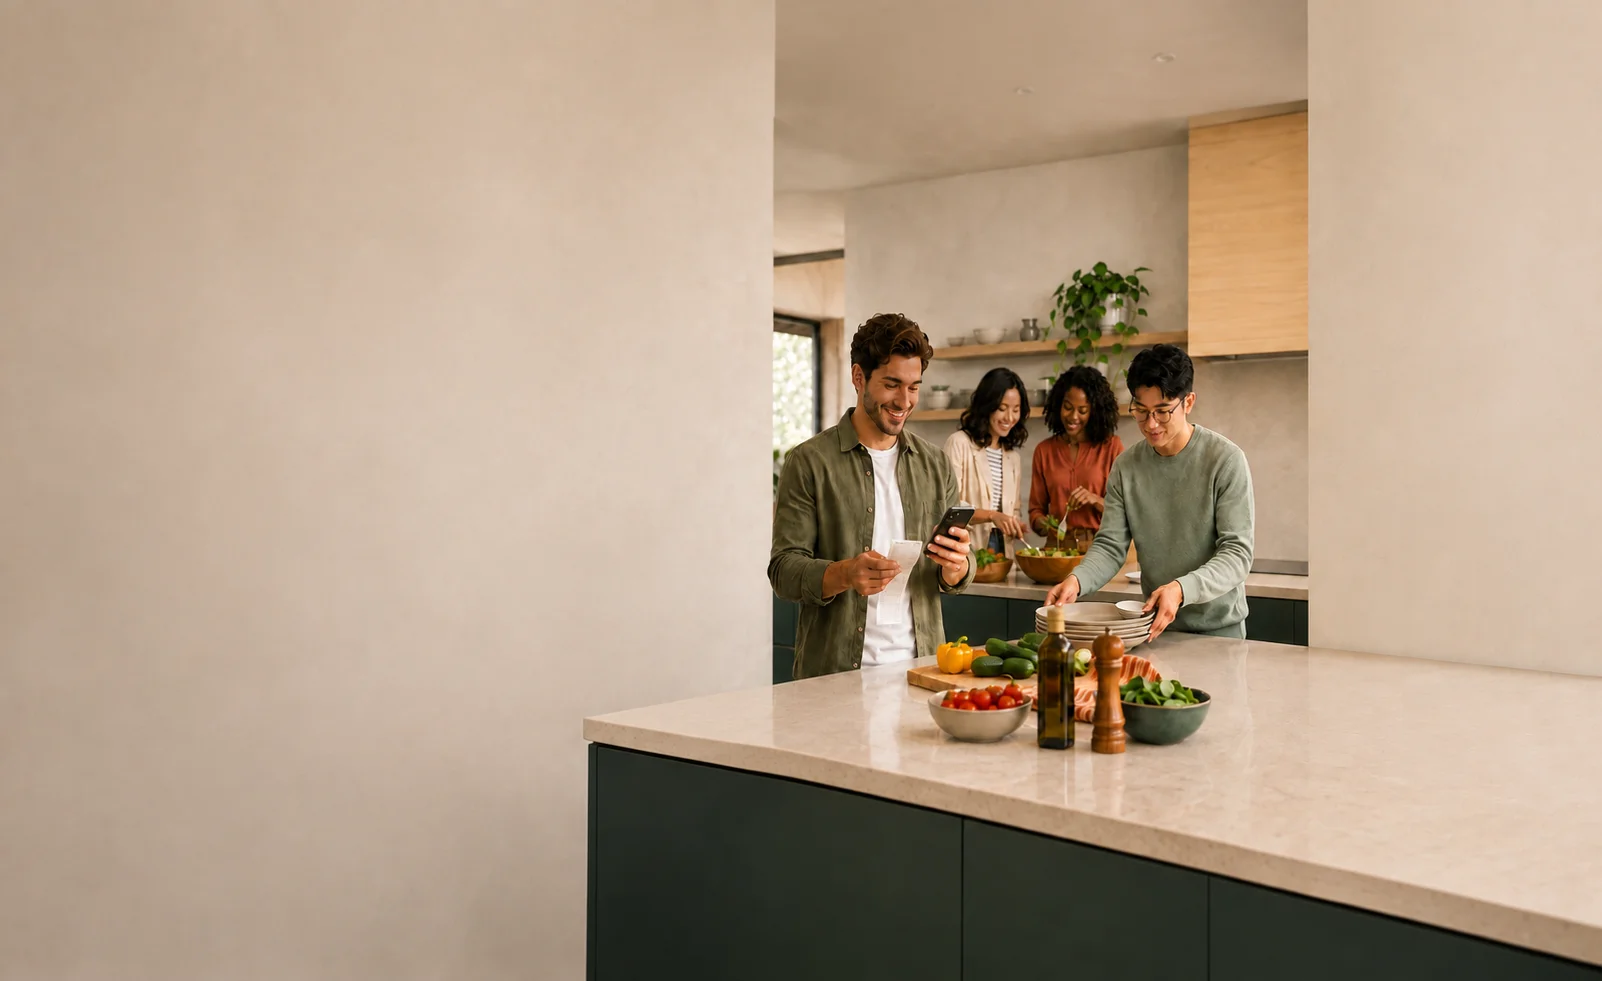
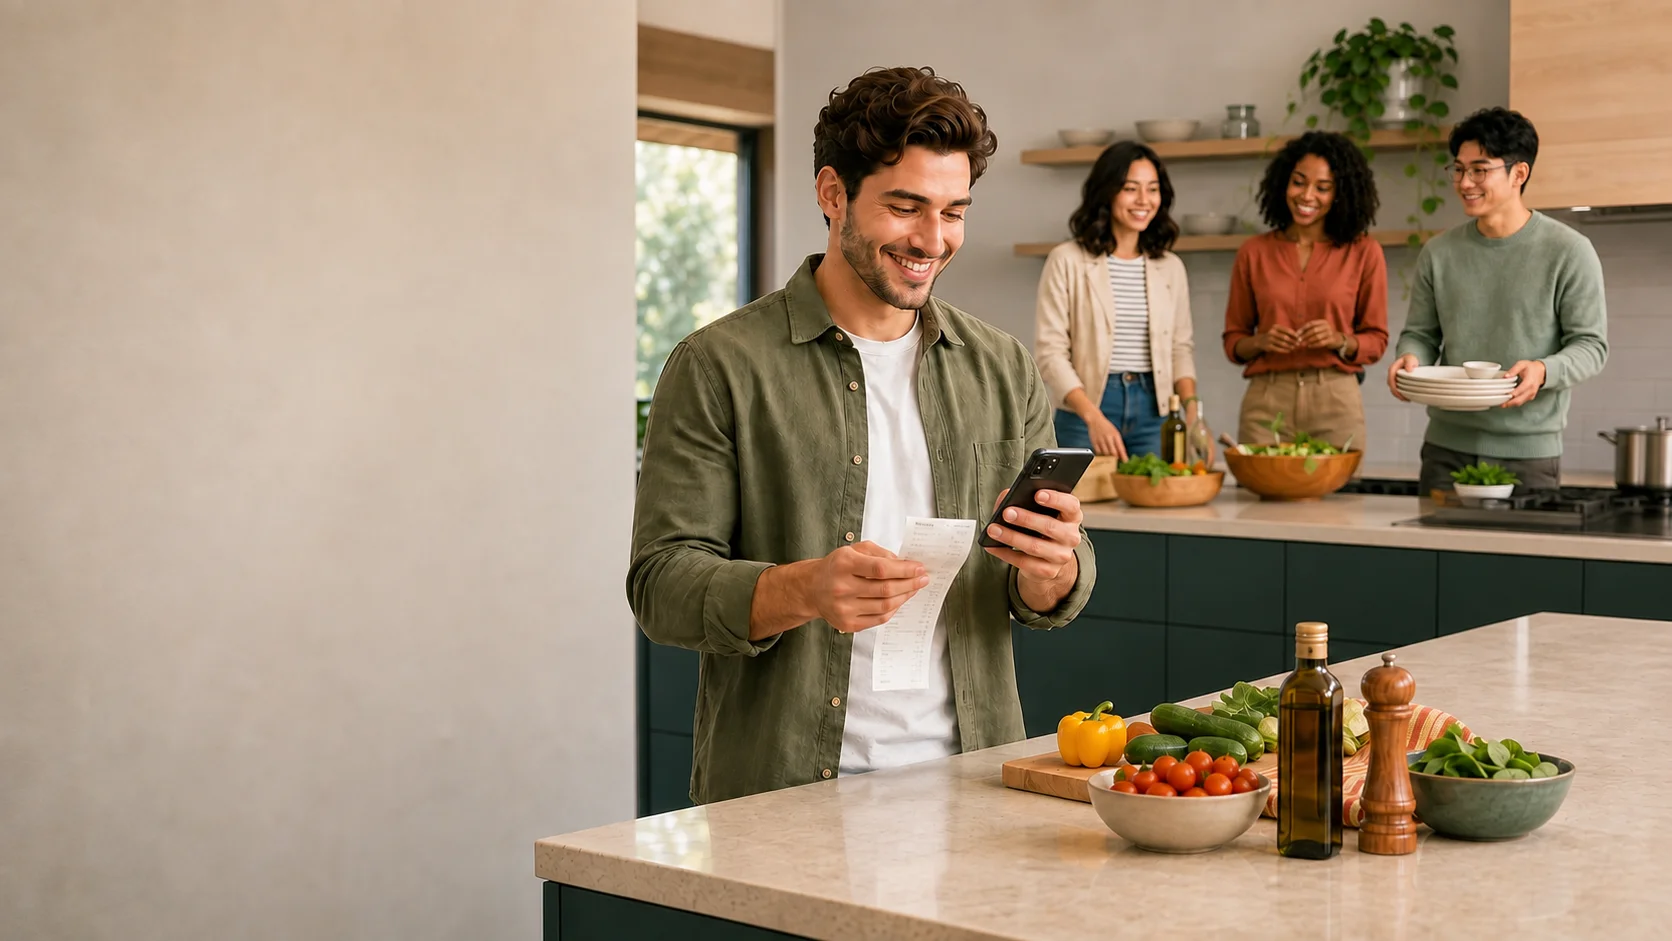
Enlarge shared landing phones and restore natural kitchen composition

diff --git a/web/components/feature-story.module.css b/web/components/feature-story.module.css
@@ -19,8 +19,7 @@
 .markers small{font-size:9px;color:#087e8c;font-weight:600}
 .next{position:absolute;bottom:24px;left:6vw;z-index:16;border:0;padding:8px 0;background:transparent;color:#4c6976;font-size:10px;font-weight:600;letter-spacing:.12em;cursor:pointer}
 .next span{display:inline-block;margin-left:16px;animation:scroll-nudge 2s ease-in-out infinite}
-.support{position:absolute;z-index:10;right:3.5vw;bottom:4svh;width:min(210px,13.5vw,27svh);pointer-events:none;user-select:none;animation:object-arrive .4s cubic-bezier(.2,.7,.2,1) both}
-.support[data-visual=transactions]{width:min(250px,17vw,30svh)}
+.support{position:absolute;z-index:10;right:3.5vw;bottom:1svh;width:var(--landing-phone-width);pointer-events:none;user-select:none;animation:object-arrive .4s cubic-bezier(.2,.7,.2,1) both}
 .demoCard{padding:16px;border:1px solid #dce9ed;border-radius:20px;background:#fff;box-shadow:0 20px 45px rgba(20,52,62,.19);color:#263b46}
 .demoHeader{display:flex;align-items:center;gap:8px;margin-bottom:12px;font-size:12px}
 .demoHeader small{margin-left:auto;color:#7d929b;font-size:9px;font-weight:400}
@@ -48,6 +47,12 @@
 @media(min-width:901px){
  .journey[data-feature-story=manage-money-together] .content{width:32vw}
  .journey[data-feature-story=manage-money-together] .wash{background:linear-gradient(90deg,#f9fdfd 0%,rgba(249,253,253,.97) 25%,rgba(249,253,253,.85) 32%,rgba(249,253,253,.08) 42%,transparent 48%)}
+}
+/* Preserve the group's camera proportions on wide, short displays. The quiet
+   wall extends beneath the copy; the photograph stays full-height at right. */
+@media(min-width:901px) and (min-aspect-ratio:16/9){
+ .journey[data-feature-story=manage-money-together] .background{background:#ebe1d4}
+ .journey[data-feature-story=manage-money-together] .photograph img{object-fit:contain}
 }
 @media(max-width:900px){
  .background{top:64px}

diff --git a/web/app/landing-preview/landing-preview.module.css b/web/app/landing-preview/landing-preview.module.css
@@ -438,7 +438,7 @@
 
 /* iPhone 17 Pro body: 71.9 × 150 mm; display: 1206 × 2622 px.
    The app capture is 402 × 778 CSS px at 3x, between the iOS safe areas. */
-.iphoneFrame{position:absolute;right:1vw;bottom:1vh;width:min(250px,19vw,33.55svh);aspect-ratio:71.9/150;border-radius:17% / 8.15%;background:linear-gradient(105deg,#8c929b 0%,#f4f6f8 2%,#aeb4bc 3.5%,#424853 6%,#eef1f5 48%,#5c6571 96%,#f8fafc 98%,#7d8490);box-shadow:0 26px 48px rgba(15,29,39,.3),-2px 1px 4px rgba(255,255,255,.85),inset 0 0 0 1px #89909a;transform-origin:bottom right}
+.iphoneFrame{position:absolute;right:1vw;bottom:1vh;width:var(--landing-phone-width);aspect-ratio:71.9/150;border-radius:17% / 8.15%;background:linear-gradient(105deg,#8c929b 0%,#f4f6f8 2%,#aeb4bc 3.5%,#424853 6%,#eef1f5 48%,#5c6571 96%,#f8fafc 98%,#7d8490);box-shadow:0 26px 48px rgba(15,29,39,.3),-2px 1px 4px rgba(255,255,255,.85),inset 0 0 0 1px #89909a;transform-origin:bottom right}
 .iphoneFrame::before{content:"";position:absolute;inset:.6% 1.5%;border-radius:inherit;background:#080b0f;box-shadow:inset 0 0 0 1px #454c55}
 .iphoneDisplay{position:absolute;inset:1.3% 3.3%;overflow:hidden;border-radius:15.5% / 7.15%;background:#f7fafb}
 .iphoneStatusBar{position:absolute;top:0;left:0;right:0;height:7.1%;display:flex;align-items:center;justify-content:space-between;padding:0 8%;color:#11161d;font-family:Arial,sans-serif;font-size:clamp(7px,.72vw,10px)}

diff --git a/web/components/landing-type.module.css b/web/components/landing-type.module.css
@@ -3,6 +3,7 @@
   --landing-body: 16px;
   --landing-action: 13px;
   --landing-table: 14px;
+  --landing-phone-width: min(280px, 21vw, 34.5svh);
 }
 /* One typography contract overrides the older scene-specific marketing rules. */
 .standard [data-landing-copy] h1 {

diff --git a/docs/feature-screen-captures.md b/docs/feature-screen-captures.md
@@ -30,4 +30,14 @@ Final prompt: “Revise composition only. Keep same faces, outfits, kitchen and 
 
 Final narrow-desktop refinement prompt: “Use case: identity-preserve. Keep this exact warm kitchen photo, same four faces and outfits and phone/receipt action. Make the four-person group smaller and shift it RIGHT. Composition for a responsive website: blank wall must occupy the LEFT 52% of the entire image. ALL people, including arms, occupy ONLY the vertical band from 54% to 77% of total image width. Main man's face at 60% width, both women slightly behind at 65% and 68%, Asian man's face at 73%. Their heads at 25–38% height. Their bodies end around 75% height. Group poses natural and faces individually visible. Rightmost 22% stays blank wall and countertop for an app screenshot added later. No person anywhere to the left of 54% or right of 77%. Preserve a full-bleed realistic connected kitchen environment, with space above all heads. No text, no graphic panels, no phone screenshot added.”
 
+## Natural-scale revision (September 5)
+
+The narrow-strip version above has been replaced. Built-in image generation (not the CLI) retained the four identities while restoring a life-sized foreground lead and naturally staggered friends behind him. Final asset: `assets/feature-stories/together-hero-screens.webp`. Original generated file: `/Users/TimCayanga1/.codex/generated_images/01a0438c-05ec-73b3-a878-72b13a2f2bfd/exec-6b0c3bb4-bf86-4b08-8644-1a794d567da9.png`.
+
+Initial composition prompt: “Use case: identity-preserve. Recompose this Clover kitchen lifestyle photograph for a full-bleed 16:9 website. Keep exactly these four recognizable people, their faces and clothing, natural body proportions and warm photographic style. They must feel life-sized and comfortably spaced, NOT miniature, narrow, compressed, or packed into a vertical strip. The curly-haired light-skinned man is the foreground lead, looking at his phone with a receipt, centered around 56% width, his head around 25% height. The two women and Asian man chat naturally behind the counter across 66–88% width; their faces are ABOVE the 30% height line, with comfortable headroom above 15%. Keep the bottom-right quadrant from x78% to100%, y34% to100% free of faces (a large phone screenshot will be added there by code; bodies/counter can be behind it). The left 40% is quiet warm wall for copy. Use camera perspective and natural staggered positions, not shrinking or squeezing bodies. Countertop with groceries and bowls reinforces a shared dinner and splitting expenses. No text, no added app screens or graphic overlays. All four faces visible, realistic anatomy, full connected kitchen background.”
+
+Final refinement prompt: “Keep the foreground man EXACTLY this large natural scale and position, same face/outfit/phone/receipt and same kitchen. Change ONLY the three friends behind him: position them a little farther back in the kitchen, with their heads higher in the frame. All three background friends' complete faces and hair must lie between y14% and y25% of the entire image height, with their chins no lower than y25%. Their bodies can continue downward naturally. They should be comfortably spaced across the upper right, around x68%,79%,90%, with natural perspective and anatomy, not squeezed. Their slightly smaller scale must read as depth in the room. This ensures an opaque phone overlay beginning at y28% on the far right will not hide ANY face. Preserve the foreground man's scale, full-bleed background, warm light, empty left wall and all four identities. No added text or screens.”
+
+All main/feature phones now use `--landing-phone-width: min(280px, 21vw, 34.5svh)`. On wide, short desktops the kitchen photograph retains its intrinsic aspect ratio at full height, with the quiet wall continuing under the left copy wash. Mobile retains its dedicated image and hides supplementary phones.
+
 The image-generation skill influenced composition only; all financial UI was captured deterministically from Clover code.

diff --git a/docs/feature-story-verification.md b/docs/feature-story-verification.md
@@ -42,3 +42,9 @@ Main and feature stories share title, body, action, and table type scales throug
 Main story scroll distance remains 2.8 screen heights. Feature chapters each receive a full 42svh reading interval (2.1 screen heights total across five chapters). Chapter selection uses equal intervals, independent of photo interpolation. The final content chapter is tested throughout its 60–80% scroll interval. The closing photograph starts transitioning only when the final CTA enters, so it cannot intrude behind the preceding product screen. Background scene timing has explicit holds for both main tables and the feature Pro table.
 
 landing-polish-browser-check.mjs checks all nine main chapters at desktop and two mobile sizes, identical type sizes by role, viewport bounds, dashed-path removal, and identical scene transforms/opacity at three points inside each table chapter. The 180-check feature browser matrix was repeated after the shared typography change.
+# Larger phones and natural group composition — September 5, 2026
+
+- All six feature stories, all five chapters: passed at 1440×900, 1024×768, 1440×600, 820×1180, 390×844 and 320×568.
+- Main landing page: all nine chapters passed at 1440×900, 1024×768, 1440×600, 390×844 and 320×568; the Skip manual rebuilding phone uses the same shared width as every feature phone.
+- Visually inspected the revised kitchen scene at 1440×900, 1440×600 and 1024×768, plus the other feature phone layouts and main Transactions phone. The kitchen lead is life-sized, friends are naturally staggered, and phone frames stay clear of faces. Mobile retains dedicated photography without supplementary phones.
+- Regression coverage asserts common responsive phone width, viewport/header bounds, actual Clover capture paths, hidden mobile overlays and equal penultimate-chapter pacing.
